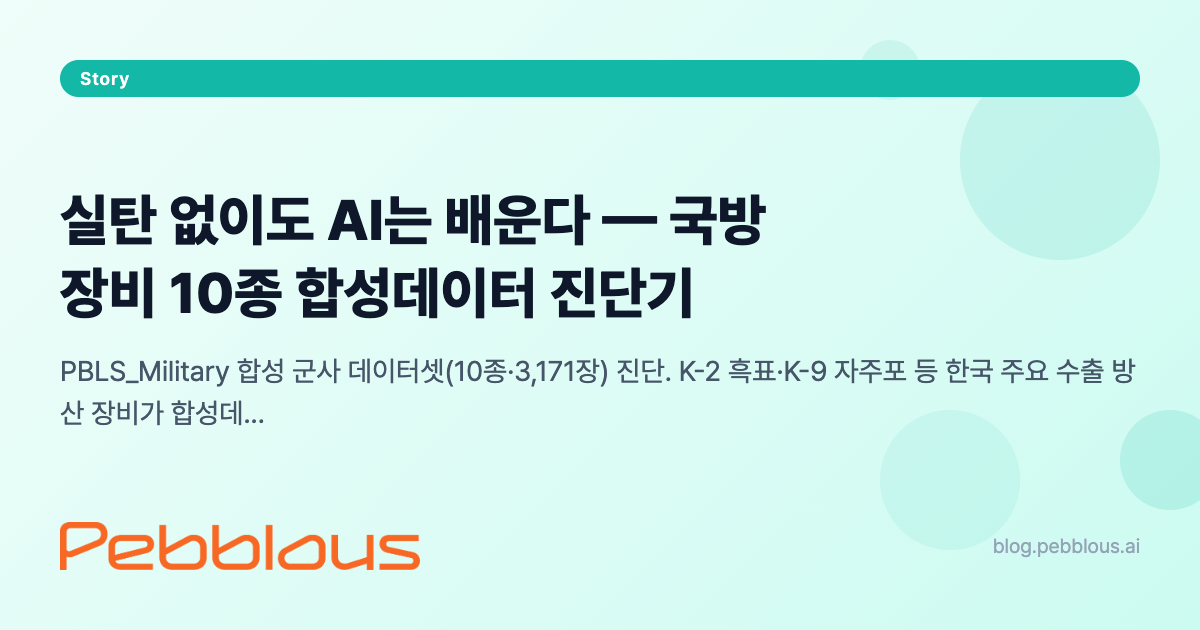
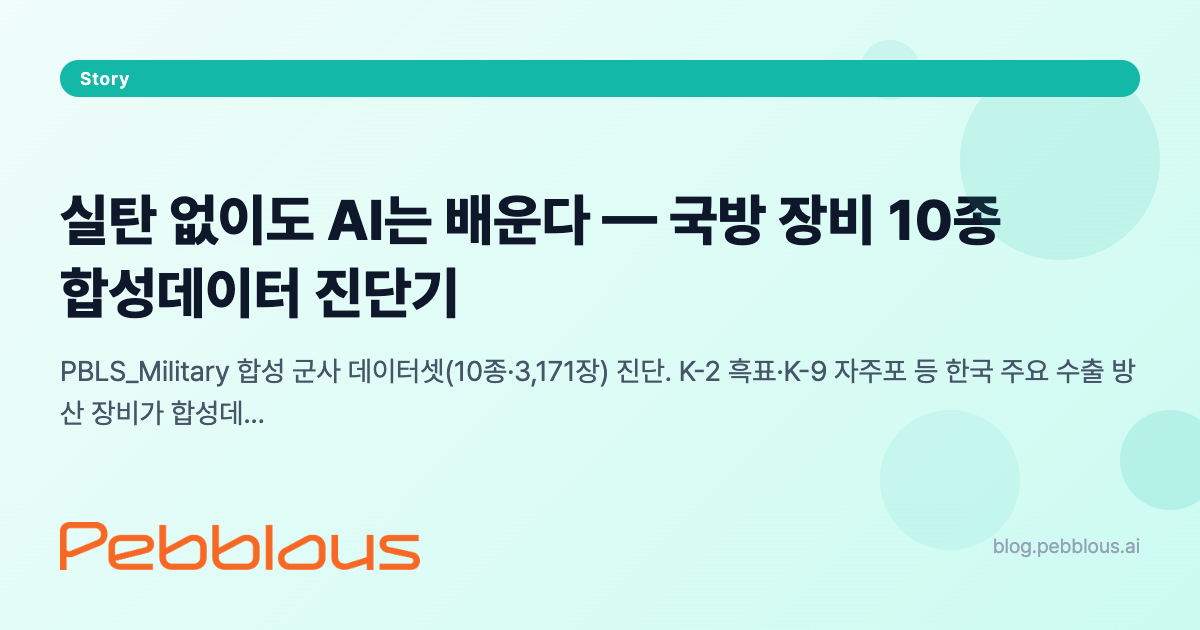
OG 이미지: maxCharsPerLine 20→30 확대 + EN 제목에 Synthetic 추가
- generate-og-image.js: 한 줄 최대 글자수 20→30으로 확대 (텍스트 영역 활용)
- EN og:title: "10 Weapon Systems' Synthetic Data Analyzed"

Changed region(s): [[0.0308, 0.4222, 0.5858, 0.5127], [0.6475, 0.3016, 0.8325, 0.3921]]

diff --git a/story/dataclinic-report-224-pbls-military-story-pb/en/index.html b/story/dataclinic-report-224-pbls-military-story-pb/en/index.html
@@ -18,7 +18,7 @@
     <link rel="alternate" hreflang="x-default" href="https://blog.pebblous.ai/story/dataclinic-report-224-pbls-military-story-pb/en/">
 
     <!-- Open Graph -->
-    <meta property="og:title" content="AI Learns Without Live Fire — 10 Weapon Systems Analyzed">
+    <meta property="og:title" content="AI Learns Without Live Fire — 10 Weapon Systems' Synthetic Data Analyzed">
     <meta property="og:description" content="DataClinic diagnosis of the PBLS_Military synthetic military dataset (10 classes, 3,171 images). Korea's top defense exports including K-2 Black Panther and K-9 Thunder enter the AI battlefield as synthetic data.">
     <meta property="og:type" content="article">
     <meta property="og:url" content="https://blog.pebblous.ai/story/dataclinic-report-224-pbls-military-story-pb/en/">

diff --git a/tools/generate-og-image.js b/tools/generate-og-image.js
@@ -127,7 +127,7 @@ function generateHTML(title, subtitle, theme, logoPath) {
     let displayTitle = title.replace(/\n/g, '<br>');
 
     // Split long titles (only if no manual breaks)
-    const maxCharsPerLine = 20;
+    const maxCharsPerLine = 30;
     if (!title.includes('\n') && title.length > maxCharsPerLine) {
         const words = title.split(' ');
         let lines = [];
